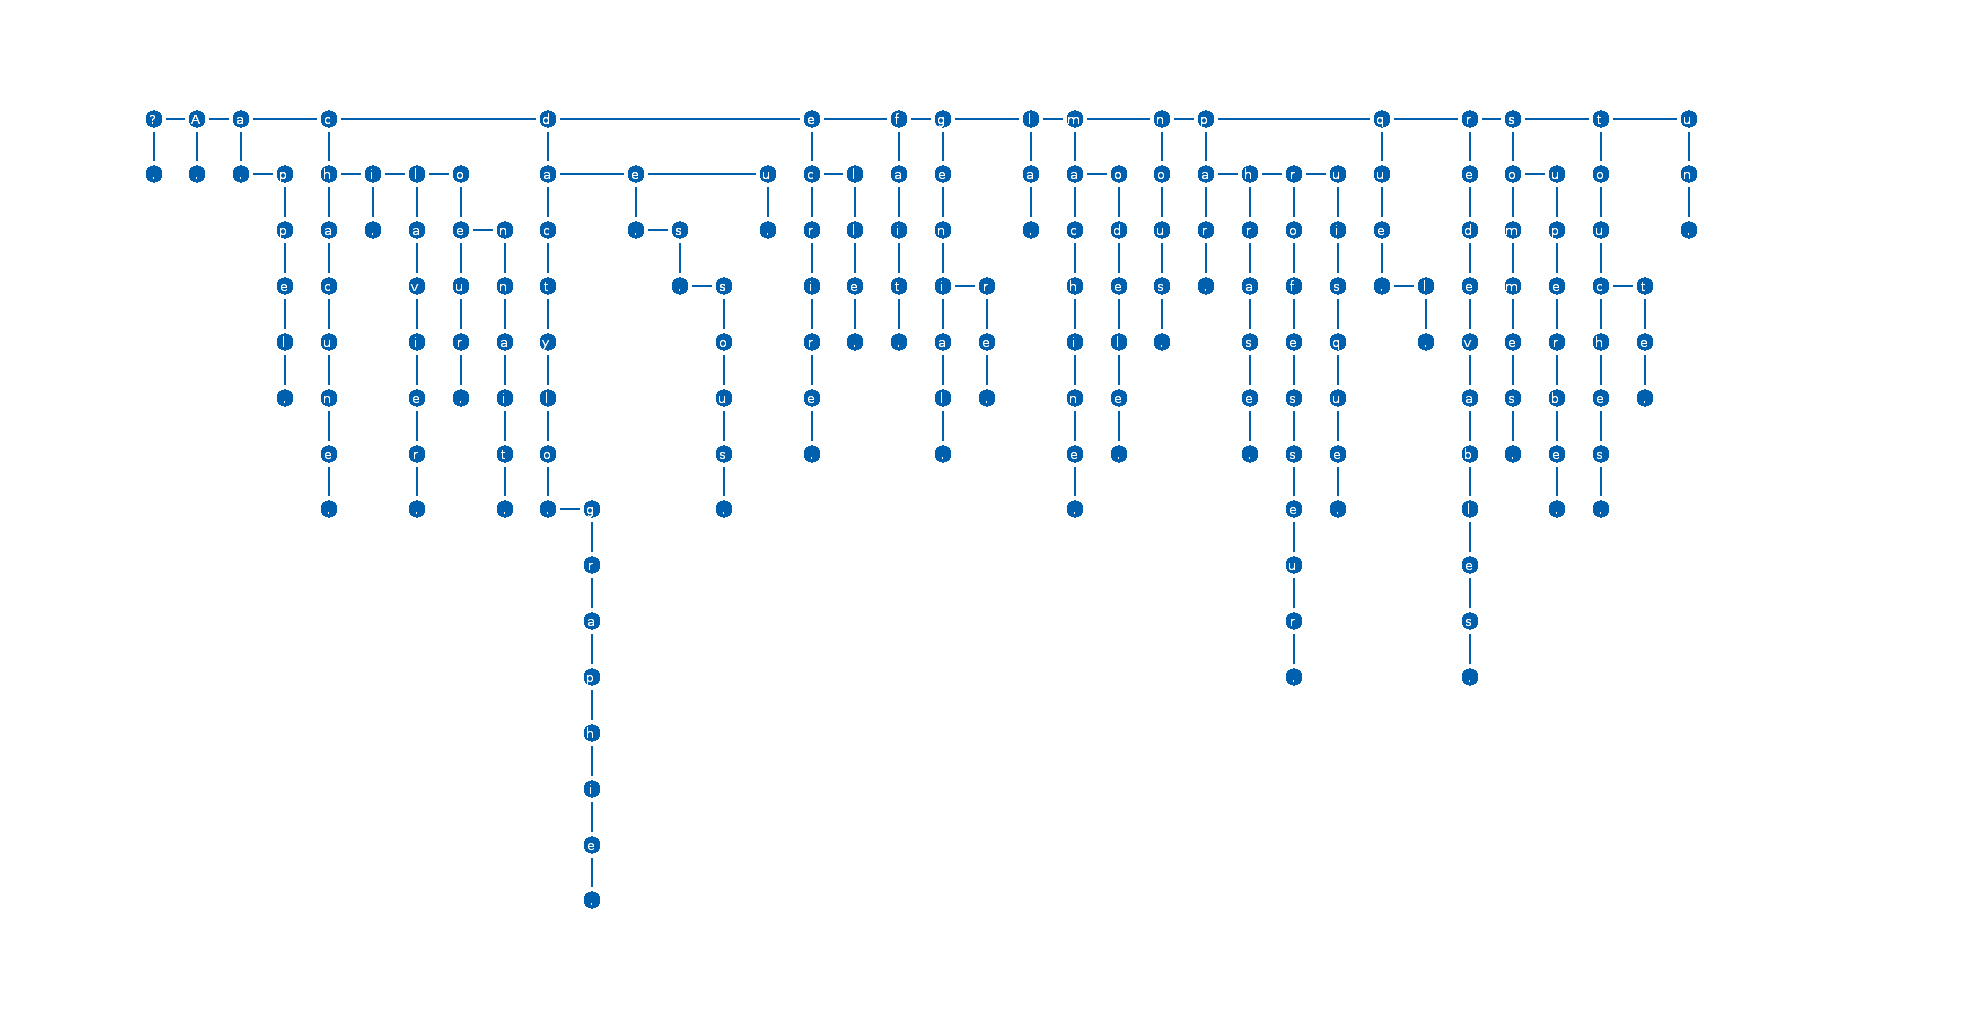
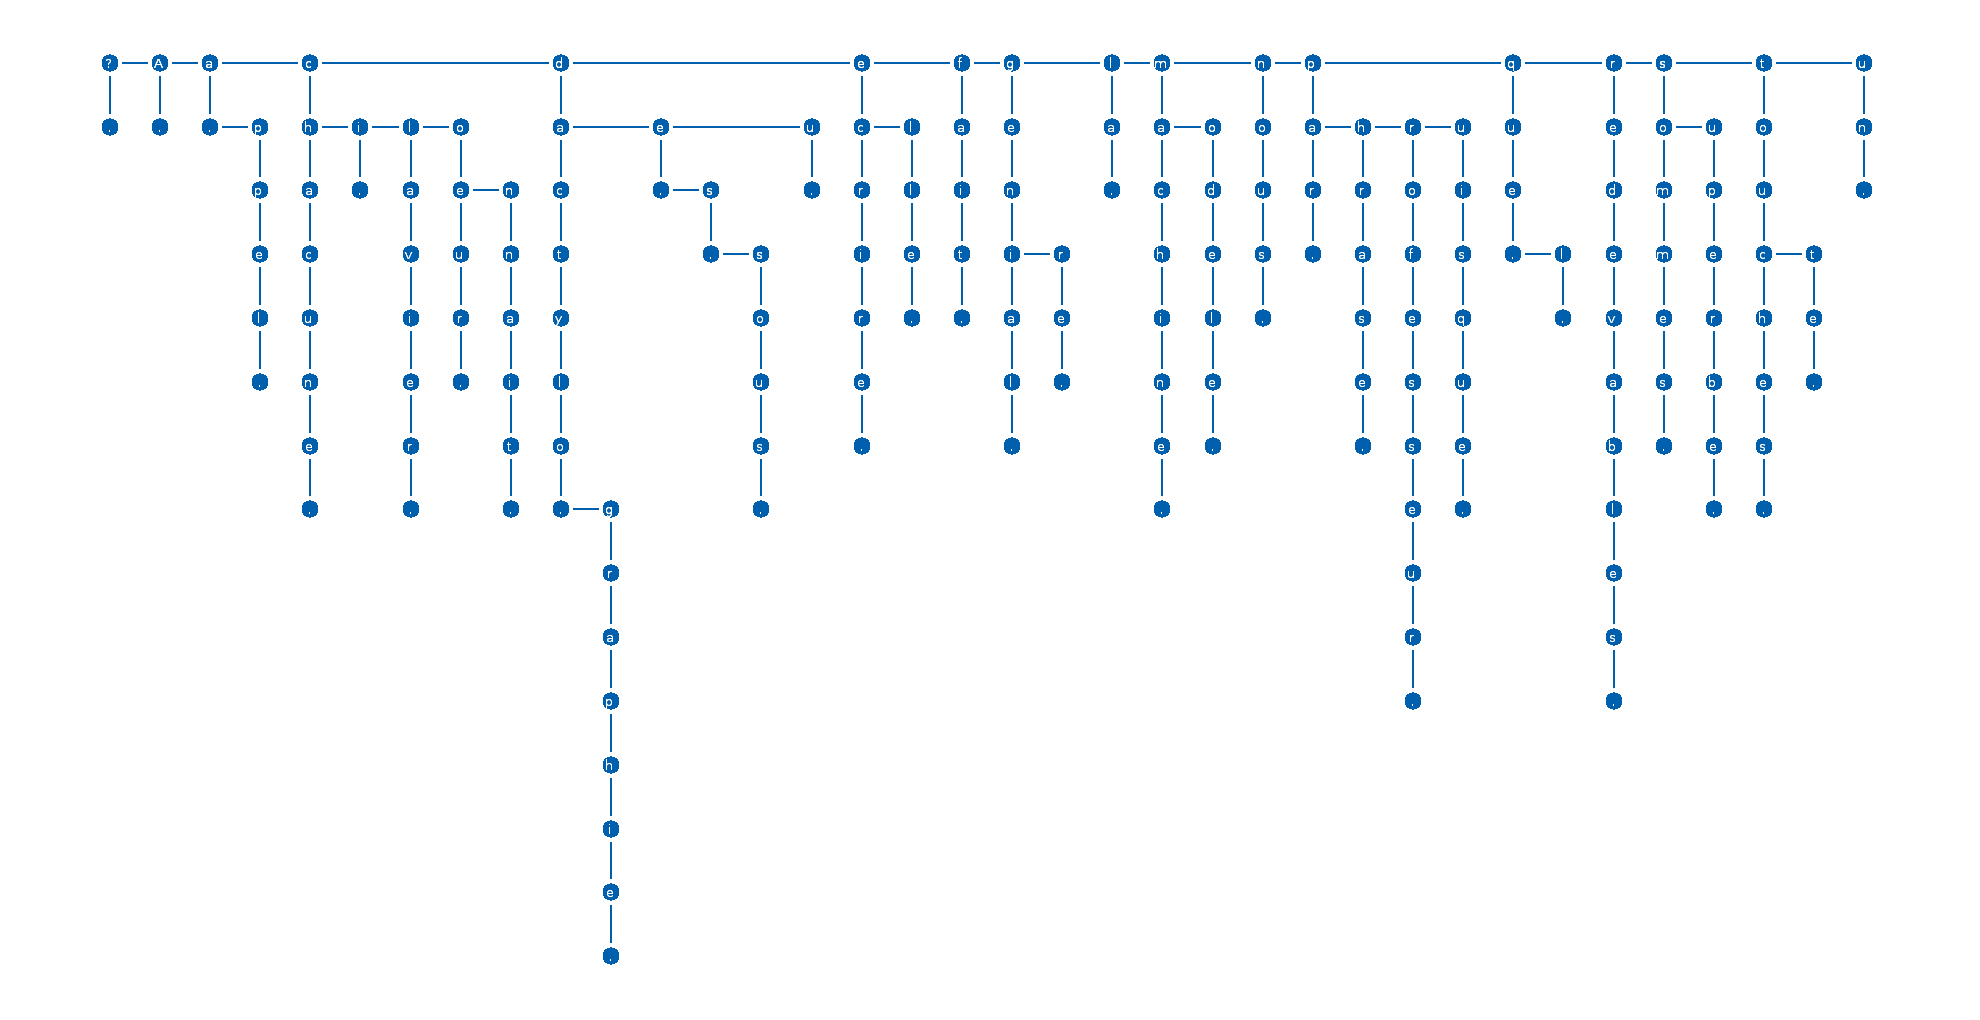
Started Hybrid Tries

diff --git a/src/Hybrid_Tries/HTrie.c b/src/Hybrid_Tries/HTrie.c
@@ -1,0 +1,126 @@
+#include "HTrie.h"
+
+
+HTrie * empty_HTrie(){
+	HTrie * new = (HTrie *) malloc(sizeof(HTrie));
+	new->key = '\0';
+	new->val = EMPTY;
+	new->inf = NULL;
+	new->eq = NULL;
+	new->sup = NULL;
+	return new;
+}
+
+int is_empty(HTrie * T){
+	if(T == NULL){
+		return TRUE;
+	}
+	else {
+		if(T->val != EMPTY || T->key != '\0' || T->inf != NULL
+				|| T->eq != NULL || T->sup != NULL)
+			return FALSE;
+	}
+	return TRUE;
+
+}
+
+HTrie * new_HTrie(char key, char val, HTrie * inf, HTrie * eq, HTrie * sup){
+
+	HTrie * new = (HTrie *) malloc(sizeof(HTrie));
+	new->key = key;
+	new->val = val;
+	new->inf = inf;
+	new->eq = eq;
+	new->sup = sup;
+	return new;
+
+}
+
+HTrie  * build_HTrie(char * word){
+
+	if(strlen(word) == 1){
+		return new_HTrie(first(word), NON_EMPTY, NULL, NULL, NULL);
+	}
+	else{
+		return new_HTrie(first(word), EMPTY, NULL, build_HTrie(end(word)), NULL);
+	}
+}
+
+HTrie * add_HTrie(char * word, HTrie * T){
+
+	if(is_empty(T)){
+		return build_HTrie(word);
+	}
+
+	if(first(word) < T->key){
+		return new_HTrie(T->key, T->val, add_HTrie(word, T->inf),
+				T->eq, T->sup);
+	}
+	else if (first(word) > T->key){
+		return new_HTrie(T->key, T->val, T->inf, T->eq, add_HTrie(word, T->sup));
+	}
+	else{
+		return new_HTrie(T->key, T->val, T->inf, add_HTrie(end(word), T->eq), T->sup);
+	}
+}
+
+void free_HTrie(HTrie * T){
+	if(T == NULL)
+		return;
+	else {
+		free_HTrie(T->inf);
+		free_HTrie(T->eq);
+		free_HTrie(T->sup);
+		free(T);
+	}
+}
+
+void inside_plot_file(HTrie * T, int x, int y);
+int width(HTrie * T);
+void make_plot_file_HTrie(HTrie * T){
+
+	inside_plot_file(T, 0, 0);
+
+}
+
+int width(HTrie * T){
+
+	if(T == NULL){
+		return 0; 
+	}
+	else {
+		int tmp = width(T->inf) + width(T->sup);
+		int w_eq = width(T->eq);
+	//	if(w_eq == 1)
+	//		return tmp;
+	//	else
+			return 1 + tmp + w_eq;
+	}
+}
+
+void inside_plot_file(HTrie * T, int x, int y){
+
+	int w_inf, w_eq, w_sup;
+
+	w_eq = width(T->eq);
+	w_inf = width(T->inf);	
+	w_sup = width(T->sup);
+
+	printf("%d %d %d\n", w_eq, w_inf, w_sup);
+	if(w_eq != 0){
+		printf("%c %d %d\n",T->key, x, y);
+		printf("%c %d %d\n\n",T->eq->key, x, y + D_X);
+	}
+	if(w_inf != 0){
+		printf("%c %d %d\n",T->key, x, y);
+		printf("%c %d %d\n\n",T->inf->key, x - w_eq / 2 - w_inf / 2, y + D_X);
+	}
+	if(w_inf != 0){
+		printf("%c %d %d\n",T->key, x, y);
+		printf("%c %d %d\n\n",T->sup->key, x + w_eq / 2 + w_sup / 2, y + D_X);
+	}
+
+
+
+
+}

diff --git a/include/HTrie.h b/include/HTrie.h
@@ -1,0 +1,39 @@
+#ifndef HTRIE_H_GUARD
+#define HTRIE_H_GUARD
+
+#include <stdlib.h>
+#include <stdio.h>
+#include <sys/types.h>
+#include <dirent.h>
+#include "tools.h"
+
+#define EMPTY '0'
+#define NON_EMPTY '1'
+#define D_X 10
+#define D_Y 10
+typedef struct HTrie{
+
+	char key;
+	char val;
+	struct HTrie * inf;
+	struct HTrie * eq;
+	struct HTrie * sup;
+
+} HTrie;
+
+
+HTrie * empty_HTrie();
+
+int is_empty(HTrie * T);
+
+HTrie * new_HTrie(char key, char val, HTrie * inf, HTrie * eq, HTrie * sup);
+
+HTrie  * build_HTrie(char * word);
+
+HTrie * add_HTrie(char * word, HTrie * T);
+
+void free_HTrie(HTrie * T);
+
+
+void make_plot_file_HTrie(HTrie * T);
+#endif

diff --git a/src/Briandais/BRTree.c b/src/Briandais/BRTree.c
@@ -343,7 +343,7 @@ BRTree * del_file_BRTree(char * file_name, BRTree * T){
 int inside_plot_file(BRTree * T, long x, long y, int next);
 void make_plot_file_BRTree(BRTree * T){
 
-	inside_plot_file(T, 10, 10, 0);	
+	inside_plot_file(T, 0, 0, 0);	
 
 }
 
@@ -365,6 +365,7 @@ int inside_plot_file(BRTree * T, long x, long y, int next){
 	}
 	else
 		printf("%c %ld %ld\n",T->key, x, y);
+
 	int width_child = inside_plot_file(T->child, x, y + D_Y, 0);
 	width_child = width_child < 10 ? 10 : width_child;
 	printf("\n");

diff --git a/src/plot_trie.c b/src/plot_trie.c
@@ -1,0 +1,22 @@
+#include "HTrie.h"
+#include "tools.h"
+
+#include <stdio.h>
+#include <stdlib.h>
+#include <time.h>
+
+int main(int argc, char ** argv){
+
+	HTrie * t = empty_HTrie();
+	
+	t = add_HTrie("Salut", t);
+	t = add_HTrie("Salutations", t);
+	t = add_HTrie("Aie", t);
+	t = add_HTrie("Bah", t);
+	t = add_HTrie("Babar", t);
+
+	make_plot_file_HTrie(t);	
+
+	free_HTrie(t);
+	return EXIT_SUCCESS;
+}

diff --git a/src/main_tries.c b/src/main_tries.c
@@ -1,0 +1,14 @@
+#include "HTrie.h"
+
+int main(int argc, char ** argv){
+
+
+	HTrie * T = empty_HTrie();
+	printf("%d\n", is_empty(T));
+	free_HTrie(T);
+	T = build_HTrie("Salut");
+	free_HTrie(T);		
+
+	return EXIT_SUCCESS;
+}
+
